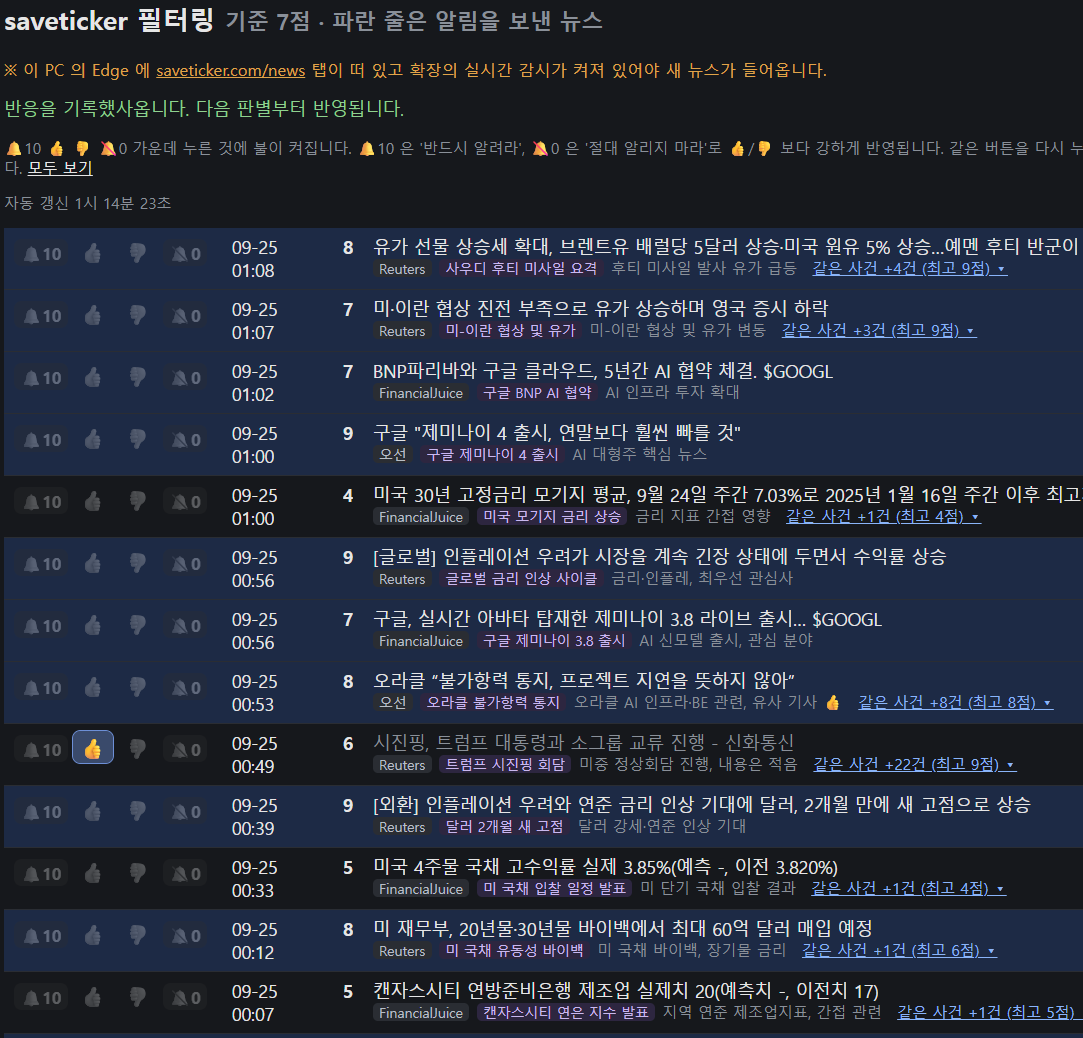
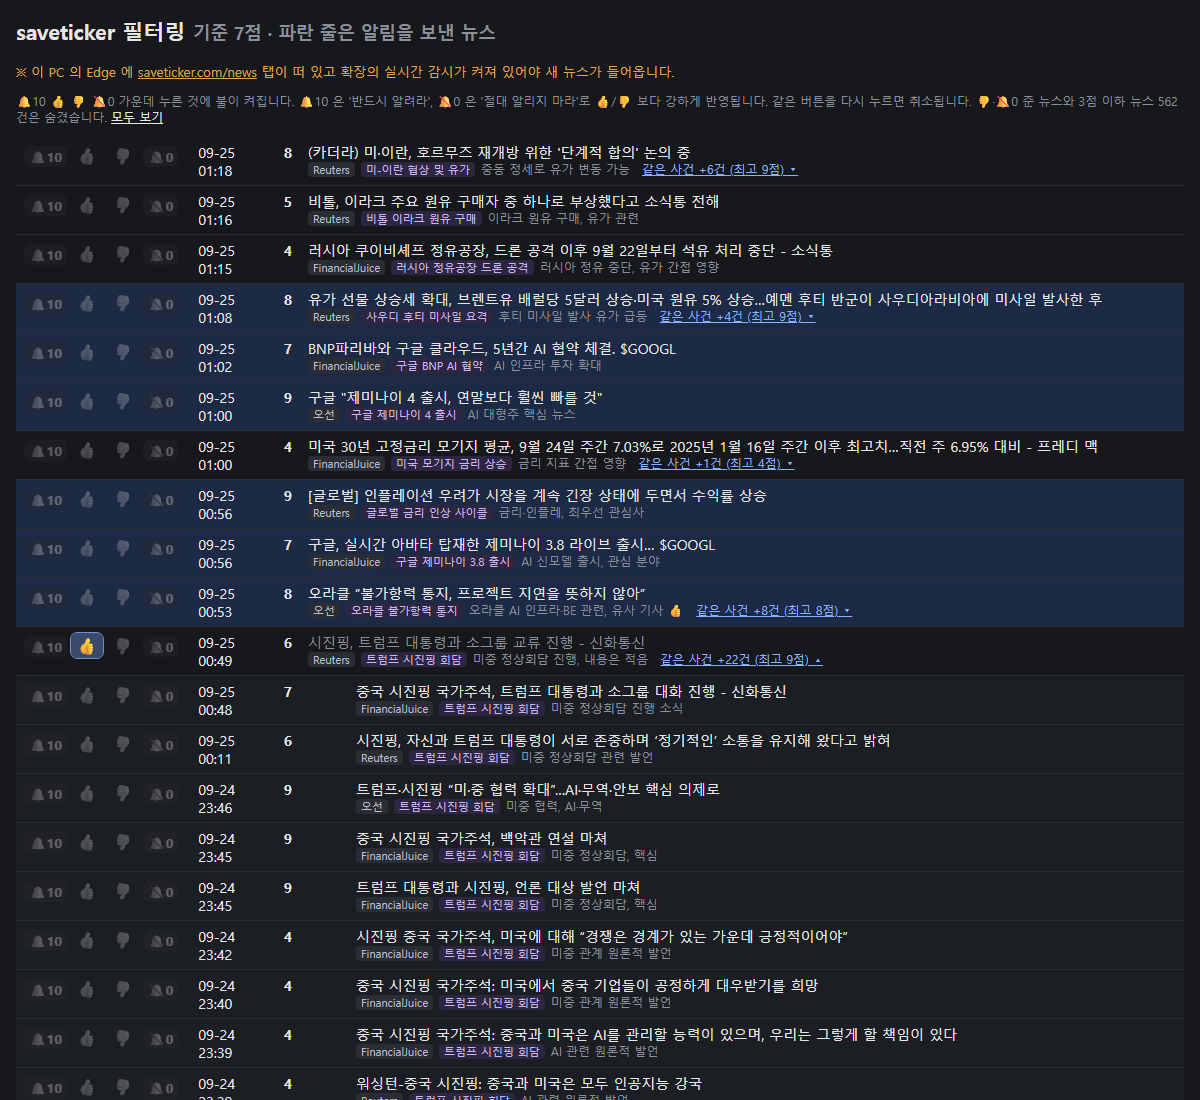
README: new screenshots (grouped event expanded, start-over links)

diff --git a/README.md b/README.md
@@ -28,7 +28,7 @@ Edge 확장 (extension/)          news_alert.py
 
 `http://127.0.0.1:18765` 의 판별 목록. 점수·이유·제공처·사건 이름(보라색)이 보이고, 왼쪽 🔔10 · 👍 · 👎 · 🔕0 으로 반응한다.
 파란 줄은 알림을 보낸 뉴스, 어두운 제목은 이미 반응한 뉴스.
-같은 사건의 뉴스는 한 줄로 접히고, **같은 사건 +N건** 을 누르면 펼쳐진다.
+같은 사건의 뉴스는 한 줄로 접히고, **같은 사건 +N건** 을 누르면 펼쳐진다 (아래는 "트럼프 시진핑 회담" 22건을 펼친 모습).
 
 ![saveticker 필터링 화면](docs/screenshot.png)
 
@@ -70,6 +70,9 @@ Edge 확장 (extension/)          news_alert.py
 - **새로 쓰는 사람**: 이 저장소의 `interests.md` 는 만든 사람의 관심사다. 먼저 내 관심사로 고쳐 쓴다.
   반응 기록과 판별 기록은 저장소에 없으니 빈 상태에서 시작한다.
 - **쓰던 기록을 지우고 싶을 때**: 판별 목록 페이지 맨 아래 **처음부터 다시** 에서
+
+  ![처음부터 다시](docs/screenshot_reset.png)
+
   - *반응 기록 지우기*: 🔔10·👍·👎·🔕0 기록만 지운다. 판별기는 관심사만 보고 다시 배운다.
   - *반응과 판별 기록 모두 지우기*: 목록까지 비운다. 최근 60분 안의 뉴스는 다시 판별한다.
 - 누르면 지울 건수를 보여 주며 **한 번 더 묻는다.** 지운 기록은 실제로 지우지 않고
